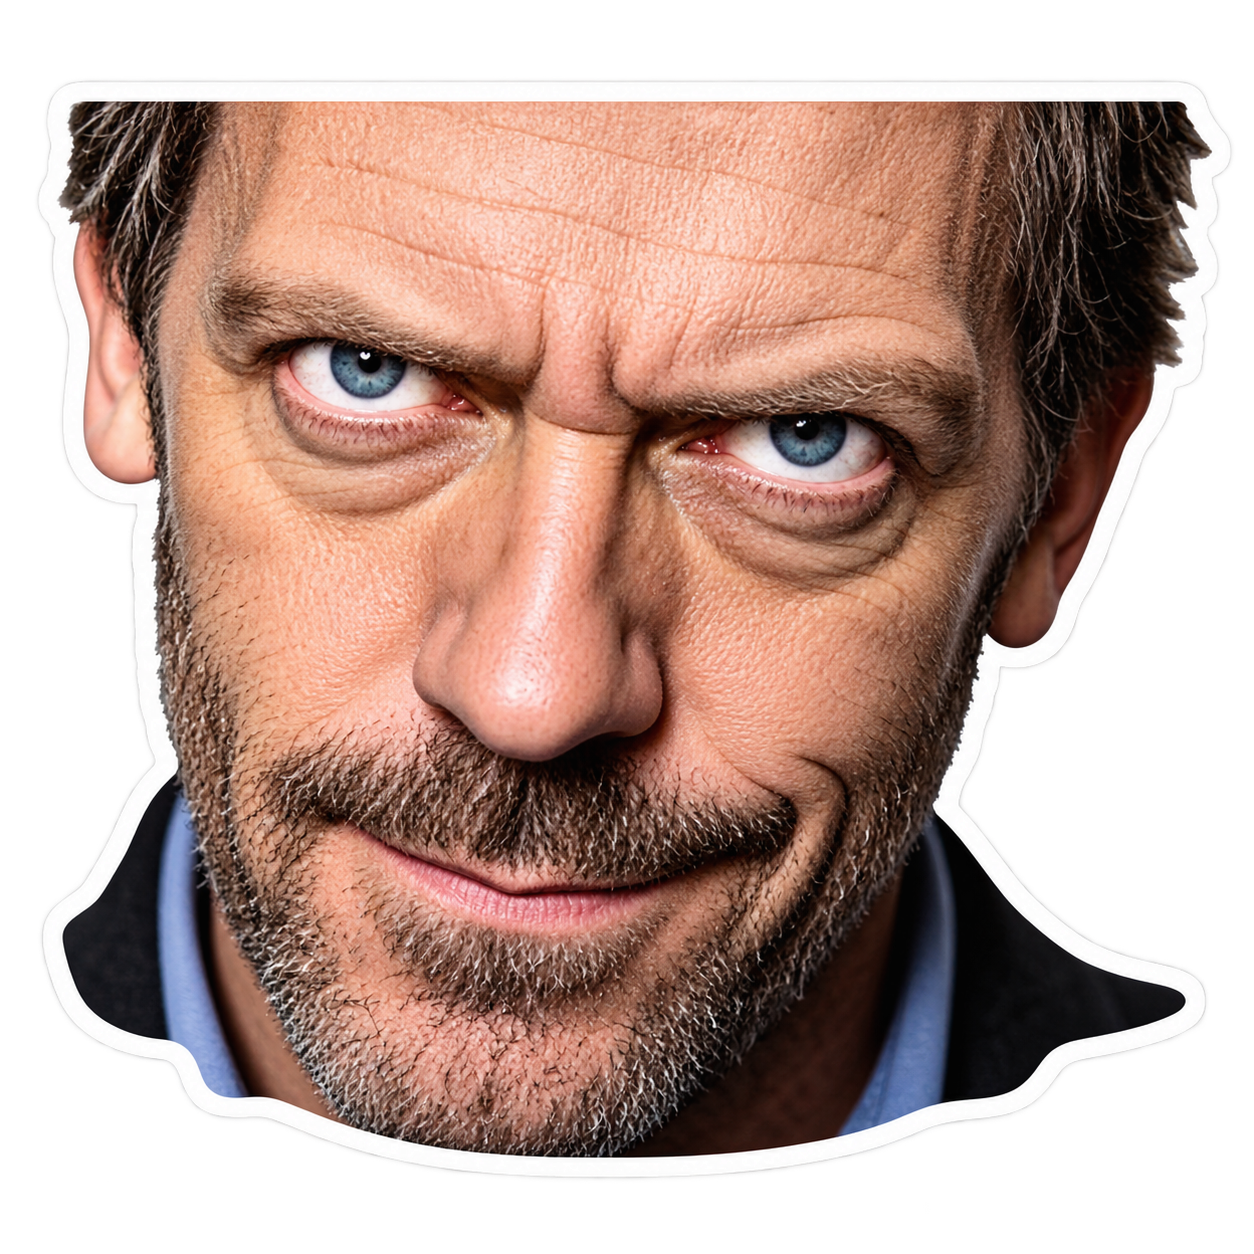
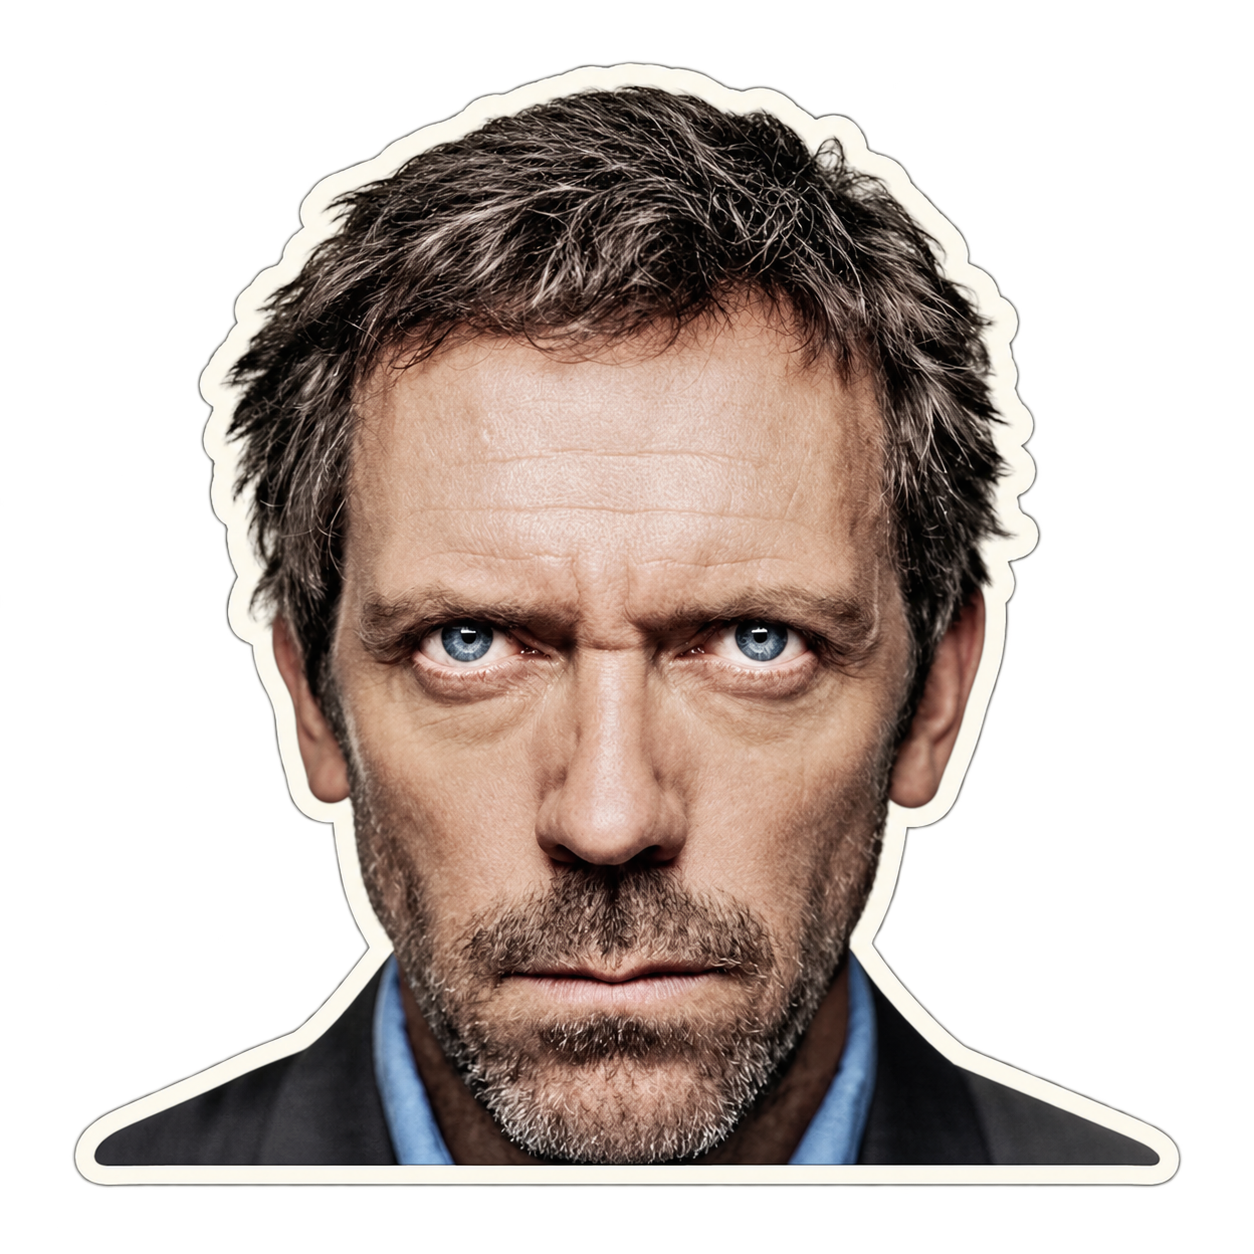
Replace House sticker with die-cut supplied image

diff --git a/public/stickers/README.md b/public/stickers/README.md
@@ -26,11 +26,12 @@ pen colors are selected beside the scratch pad’s Clear button.
 
 ## House image generation
 
-`house.png` was created with the built-in image-generation tool (not the CLI).
-The generated original was copied into this directory, preserving transparency.
-Final prompt:
+`house.png` was replaced with a die-cut version of the user's supplied iconic
+House M.D. meme image. The built-in image-generation tool was used to remove
+the screenshot background and preserve the portrait as a transparent sticker.
+Edit prompt:
 
-> Create one finished die-cut vinyl sticker asset for a retro EMS simulation game. Subject: an instantly recognizable comically zoomed-in portrait of Dr. Gregory House (Hugh Laurie) from House M.D., piercing blue eyes, furrowed brows, scruffy stubble, slightly crooked sardonic grin; exaggerated extreme close-up with the forehead and chin cropped by the die-cut silhouette. Style: high-quality photographic meme cutout with slightly posterized colors, not generic cartoon. Face fills nearly the entire sticker; thick off-white die-cut sticker edge. Single isolated sticker centered, transparent background, no text, no additional objects, no shadow beyond the sticker. Square composition, usable small at 100px.
+> Use the provided image as the exact edit source. Create a finished transparent-background die-cut vinyl sticker asset for the existing game UI. Preserve the subject's identity, frontal composition, serious expression, blue eyes, hair, beard, clothing collar, and photographic appearance exactly; do not stylize, redraw, or change the face. Remove the white screenshot background and the thin line at the bottom, retaining only the portrait silhouette. Add a clean, even off-white sticker border around the portrait silhouette with a very subtle dark edge, matching the existing sticker treatment. Center the portrait in a square canvas with transparent pixels outside the sticker. No text, logos, watermark, extra objects, or background.
 
 An initially generated Speed variant was superseded by the user's supplied image
 and is not used by the project.
